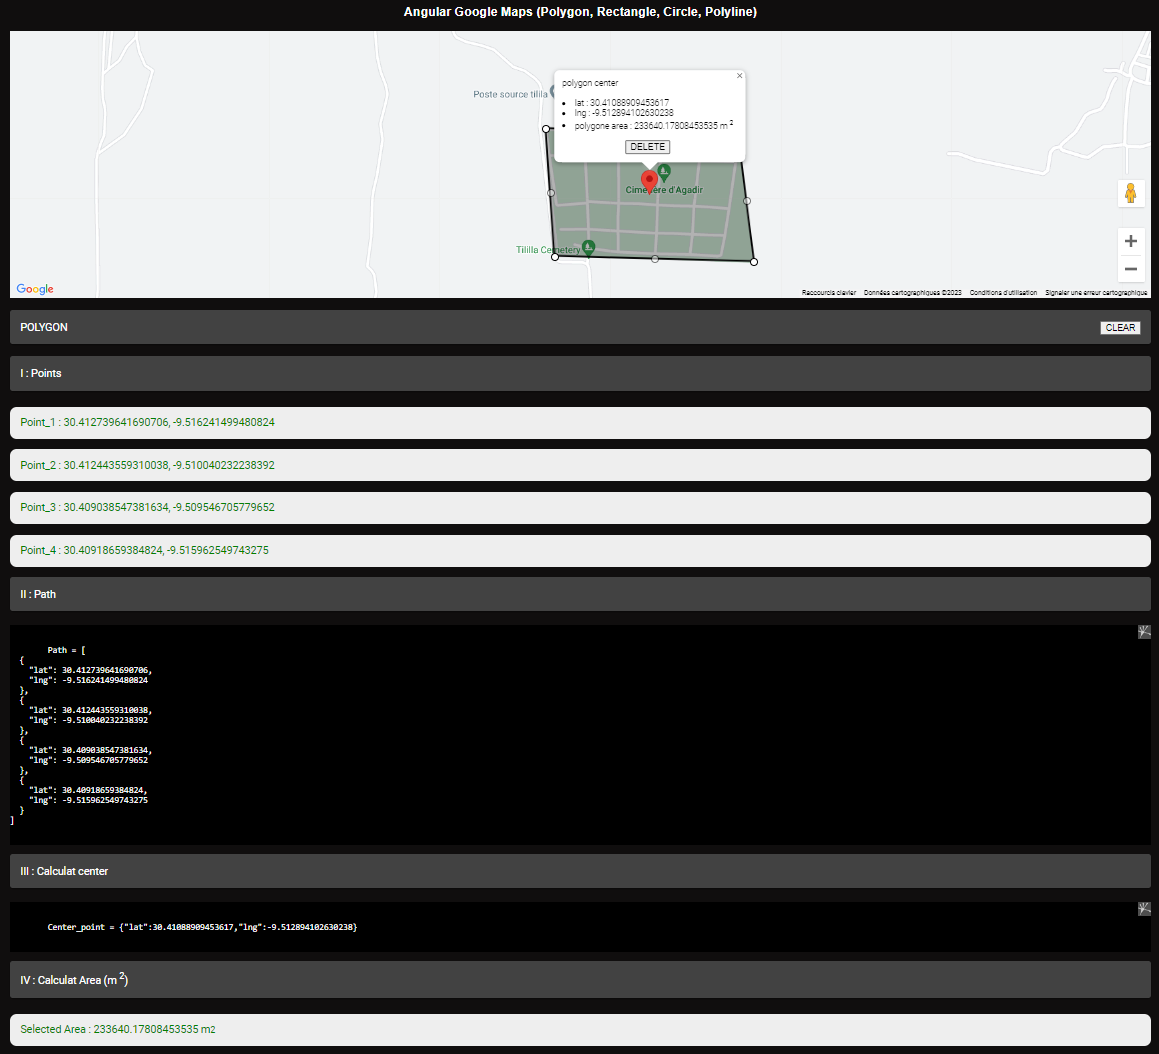
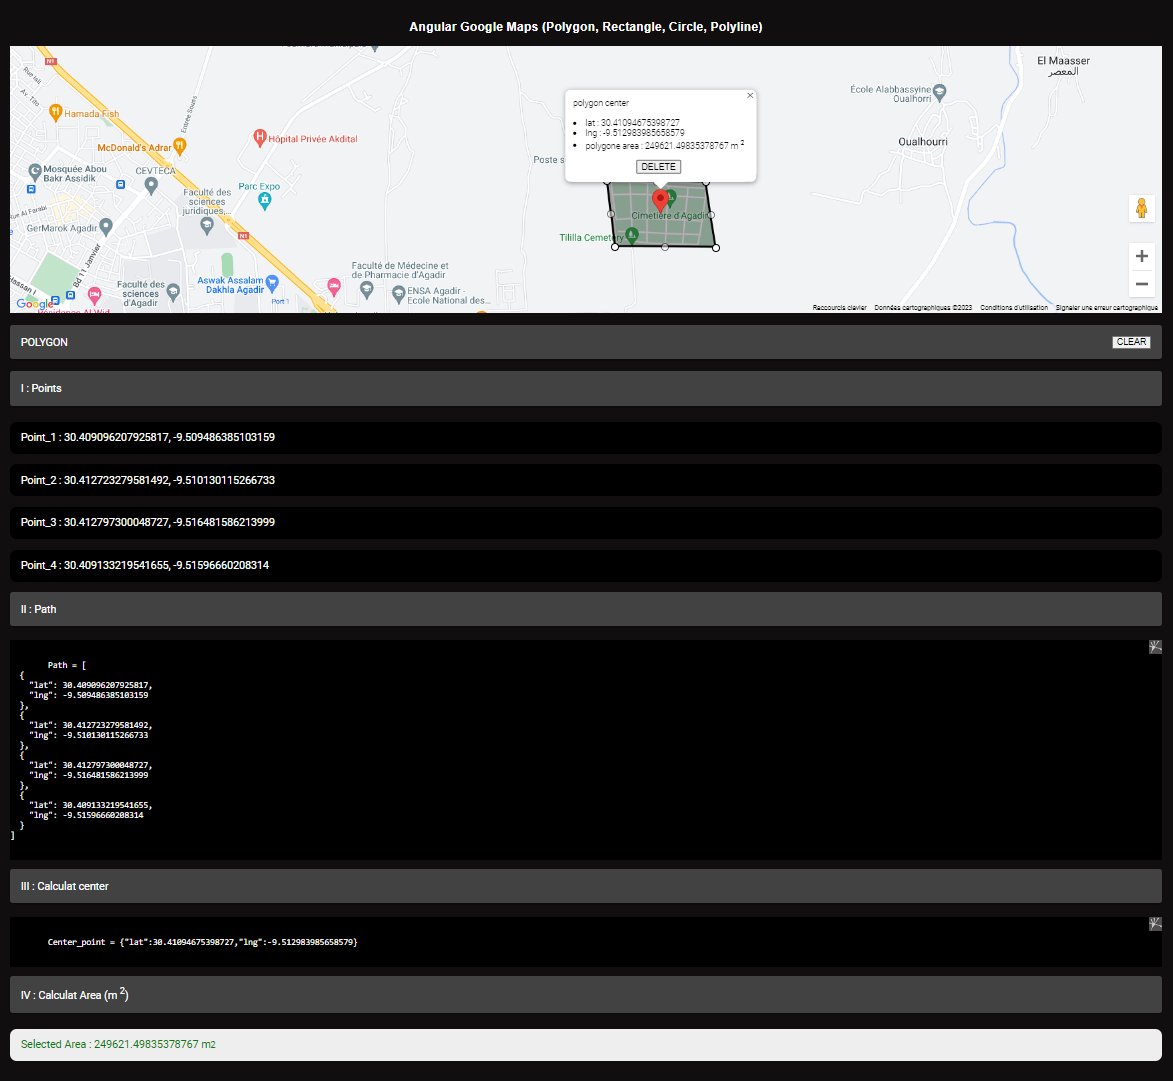
save

diff --git a/src/app/agm-example/agm-example.component.html b/src/app/agm-example/agm-example.component.html
@@ -18,7 +18,7 @@
   </agm-map>
   <br />
   <!--*ngIf="getres"-->
-  <div>
+  <div >
     <mat-card style="text-transform:uppercase;">
       <span *ngIf="drawType">{{drawType}}</span>
       <span *ngIf="!drawType">Draw your area</span>
@@ -29,8 +29,10 @@
       <span>I : Points </span>
     </mat-card>
     <mat-list role="list">
-      <mat-list-item role="listitem" *ngIf="!getres"> Point_ ... </mat-list-item>
-      <mat-list-item role="listitem" *ngFor="let point of pointList; let index = index;"> Point_{{index +1 }} : {{ point.lat }}, {{ point.lng }}
+     
+        <mat-list-item role="listitem" *ngIf="!getres" class="matlist"> Point_ ... </mat-list-item>
+        <mat-list-item role="listitem" *ngFor="let point of pointList; let index = index;" class="matlist"> Point_{{index +1 }} : {{ point.lat }}, {{ point.lng }}
+       
       </mat-list-item>
     </mat-list>
     <mat-card>

diff --git a/src/app/agm-example/agm-example.component.css b/src/app/agm-example/agm-example.component.css
@@ -38,3 +38,8 @@ pre {
   background-color: black;
   color: #fff;
 }
+
+.matlist {
+  background-color: #000;
+  color: #fff;
+}
